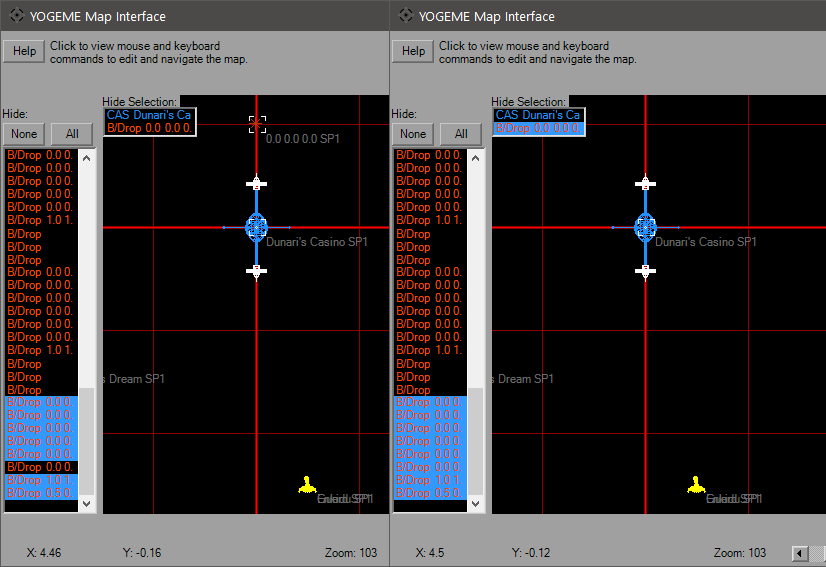
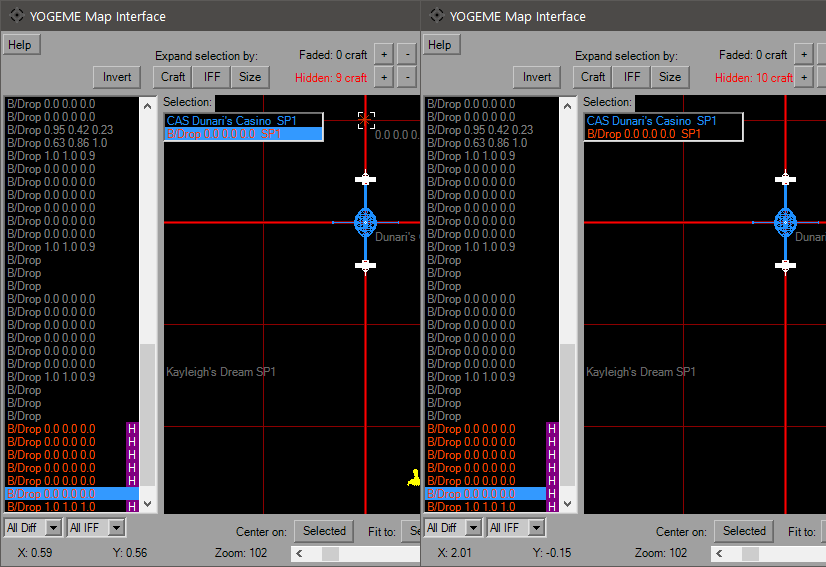
map help update

diff --git a/help file/pages/main/map.html b/help file/pages/main/map.html
@@ -8,16 +8,19 @@
 <p align=center><img src="../../images/Map.png"></p>
 The Map Dialog is the visual interface of placing FlightGroup Waypoints.  From here start locations, flight paths and the briefing locations can be viewed and moved. This is one of the few resizable windows in YOGEME, it can also be maximized for better viewing.<br><br>
 
-By default, only the first Start Point will be visible when you open the map. Additional waypoints can be set in the <a href="opt.html">Options Dialog</a> as defaults.  Craft are color-coded according to their IFF and wireframes are shown at their correct size/orientation unless it would be too small and it falls below a threshold that can also be set in the Options dialog. Another option can set small craft below a certain size to also display as icons instead of wireframe.  Additional colors are used on larger models for meshes designated as Hangars (white) or Docking/Landing Platforms (yellow) with an example below.<br>
+By default, only the first Start Point will be visible when you open the map. Additional waypoints can be set in the <a href="opt.html">Options Dialog</a> as defaults.  Craft are color-coded according to their IFF (or gray for XWA and not in the selected Region) and wireframes are shown at their correct size/orientation unless it would be too small and it falls below a threshold that can also be set in the Options dialog. Another option can set small craft below a certain size to also display as icons instead of wireframe.  Additional colors are used on larger models for meshes designated as Hangars (white) or Docking/Landing Platforms (yellow) with an example below.<br>
 <p align=center><img src="../../images/Map-Mesh.png"></p>
 
-The initial view will be <i>X-Y</i> top view, the upper right will allow you to view from the "side" and "front" of the mission space.  Use the checkboxes on the right-hand side to show/hide additional waypoints. Selecting the <i>BRF</i> waypoint (not available in XWA) will hide all others. The disabled checkboxes will activate according to platform. If the view is too cluttered, you can select a Flightgroup on the left to hide it, or left-click the icon/wireframe (or box select) and select it in the popup.<br>
+The initial view will be <i>X-Y</i> top view, the upper right will allow you to view from the "side" and "front" of the mission space.  Use the checkboxes on the right-hand side to show/hide additional waypoints. Selecting the <i>BRF</i> waypoint (not available in XWA) will hide all others. The disabled checkboxes will activate according to platform. If the view is too cluttered, you can select a Flightgroup on the left to hide it, or left-click the icon/wireframe (or box select) and select it in the popup. Use the Hidden '+' button or the 'H' key to hide it, which will remove it form the view and add a flag in the craft list. The Faded '+' or 'F' key will fade the wireframe instead or removing it completely. When a hidden/faded craft is selected (use the craft list if hidden), using the '-' button will restore it, or the 'None' button will restore all in the appropriate category, while the 'S' key will show all.<br>
 <p align=center><img src="../../images/Map-Hide.png"></p>
 
-To move around the map, right-click and drag.  The mouse wheel will zoom the map in and out in addition to the slider. Middle-click will reset the map to default location (0, 0) and zoom (40). Click and drag an icon/WP to move it. The coordinates of your mouse pointer updates as you move over the map.<BR>
-Hit the "Help" button for more control details, as well as the usage of the filters to show/hide Flightgroups.<BR>
+To move around the map, right-click and drag.  The mouse wheel will zoom the map in and out in addition to the slider. Middle-click actions can be customized in the Options Dialog. Select and L-click drag a Flightgroup/WP to move it (Shift key no longer needed as of v1.8).  If multiple craft are selected, the entire selection will be moved. The coordinates of your mouse pointer updates as you move over the map. There's snap options in the upper right that can control how the drag operations behave.<BR><br>
 
+The images below show the Traces ability. This will connect all enabled WPs. Solid lines connect <i>SP1</i> to the waypoints, and a dashed line connects the last WP used to the <i>HYP</i> point. Unselecting the <i>Tags</i>, <i>Distance</i> and <i>Time</i> checkboxes hide the words near icons and waypoints, with the <i>Hide on fade</i> and <i>Selected only</i> checkboxes helping limit clutter on busy maps. When a craft is Faded, the wireframe and WPs will remain present but grayed out.<br>
 <p align=center><img src="../../images/Map-Trace.png"></p>
-The image above shows the Traces ability. This will connect all enabled WPs. Solid lines connect <i>SP1</i> to the waypoints, and a dashed line connects the last WP used to the <i>HYP</i> point. Unselecting the <i>Tags</i> or <i>Distance</i> checkboxes hide the words near icons and waypoints.
+<p align=center><img src="../../images/Map-Fade.png"></p>
+<p align=center><img src="../../images/Map-Fade-Sel.png"></p>
+
+Hit the "Help" button for the full keyboard and mouse controls, as well as the usage of the filters to show/fade/hide Flightgroups.<BR><br>
 </body>
 </html>
